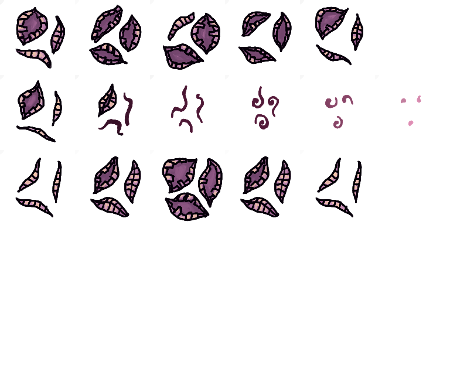
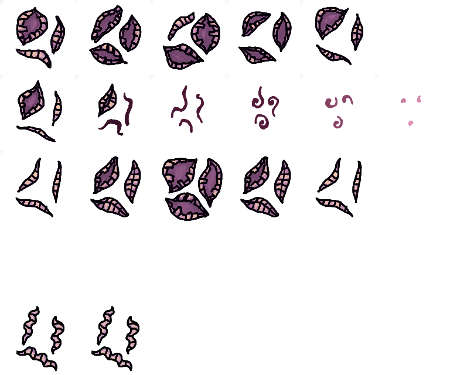
Green portal and a new enemy

Changed region(s): [[0.0311, 0.8213, 0.1556, 0.9973], [0.1867, 0.8213, 0.3111, 0.9973]]

diff --git a/src/animationsystem.py b/src/animationsystem.py
@@ -43,34 +43,41 @@ class AnimationSystem(object):
                 if not self.world.appearance[entity_ID].play_animation_till_end and not self.stun_animation_running(entity_ID):
                     if isinstance(event, events.EntityAttacks):
                         self.play_attack_animation(entity_ID, event.attack_Nr)
-                    if isinstance(event, events.EntityJump):
+                    elif isinstance(event, events.EntityJump):
                         if not self.jump_animation_running(entity_ID):
                             self.play_jump_animation(entity_ID)
-                    if isinstance(event, events.EntityMovesLeft):
+                    elif isinstance(event, events.EntityMovesLeft):
                         self.world.appearance[entity_ID].flip = True
                         if not self.walk_animation_running(entity_ID) and not self.jump_animation_running(entity_ID):
                             self.play_walk_animation(entity_ID)
-                    if isinstance(event, events.EntityMovesRight):
+                    elif isinstance(event, events.EntityMovesRight):
                         self.world.appearance[entity_ID].flip = False
                         if not self.walk_animation_running(entity_ID) and not self.jump_animation_running(entity_ID):
                             self.play_walk_animation(entity_ID)
-                    if isinstance(event, events.EntityStopMovingLeft):
+                    elif isinstance(event, events.EntityStopMovingLeft):
                         if not self.idle_animation_running(entity_ID) and not self.jump_animation_running(entity_ID):
                             self.play_idle_animation(entity_ID)
-                    if isinstance(event, events.EntityStopMovingRight):
+                    elif isinstance(event, events.EntityStopMovingRight):
                         if not self.idle_animation_running(entity_ID) and not self.jump_animation_running(entity_ID):
                             self.play_idle_animation(entity_ID)
-                    if isinstance(event, events.EntityGrounded):
-                        if self.jump_animation_running(entity_ID):
-                            self.play_idle_animation(entity_ID)
+                    elif isinstance(event, events.EntityGrounded):
+                        if self.jump_animation_running(entity_ID) or "no_gravity" in self.world.collider[entity_ID].tags:
+                            if not self.idle_animation_running(entity_ID):
+                                self.play_idle_animation(entity_ID)
                 if isinstance(event, events.ActivateEntity):
                     self.play_idle_animation(entity_ID)
+                '''
+                if isinstance(event, events.PlayIdleAnimation):
+                    self.world.appearance[entity_ID].current_animation = 0
+                    if self.world.appearance[entity_ID].frames[0] < self.world.appearance[entity_ID].current_frame_x:
+                        self.world.appearance[entity_ID].current_frame_x = 0
+                '''
                 if isinstance(event, events.EntityStunned):
                     self.play_stun_animation(entity_ID, event.duration)
                 if isinstance(event, events.EntityDies):
                     if not self.death_animation_running(entity_ID):
                         self.play_death_animation(entity_ID)
-                                                
+
     def run_animations(self, dt):
         """Computes which animation frame should be displayed.
         Every CPU tick checks if new frame should be displayed. Therefore there is a counter for each animation that measures time. When time equal delay between frames passed, next frame will be displayed.

diff --git a/src/gameworld.py b/src/gameworld.py
@@ -255,6 +255,12 @@ class GameWorld(object):
                     proj_anim_time_list = [28, 13]
                     proj_width = 40
                     proj_height = 40
+                elif ai_ID == "green_2":
+                    proj_image = "projectile_fly_green.png"
+                    proj_anim_list = [2, 2]
+                    proj_anim_time_list = [28, 13]
+                    proj_width = 40
+                    proj_height = 40
                 elif ai_ID == "pink_1":
                     proj_image = "pink_proj.png"
                     proj_anim_list = [2, 2]
@@ -393,6 +399,8 @@ class GameWorld(object):
                 collider = components.Collider(x*64+96, y*64+74, 64, 64)
                 if tile_properties["setting"] == "pink":
                     temp = pygame.image.load(os.path.join('data', 'portal_pink.png'))
+                elif tile_properties["setting"] == "green":
+                    temp = pygame.image.load(os.path.join('data', 'portal_green.png'))
                 else:
                     temp = pygame.image.load(os.path.join('data', 'portal.png'))
                 portal_sprite = components.Appearance(temp.convert_alpha(), 256, 197, [8], [80])
@@ -516,7 +524,23 @@ class GameWorld(object):
             enemy_AI = ai.AI_1(self, enemy_ID, self.event_manager)
             self.add_component_to_entity(enemy_ID, enemy_AI)
             self.add_component_to_entity(enemy_ID, attack_list)
-
+        elif ai_ID == "green_2":
+            #Enemy's hitbox, it is 50 pixel width and 96 pixel height
+            coll = components.Collider(position[0], position[1], 100, 100, tags)
+            vel = components.Velocity(0, 0, max_x_vel, max_y_vel)
+            #Create enemy's animations
+            temp = pygame.image.load(os.path.join('data', 'enemy_green_2.png')).convert_alpha()
+            anim_list = [5, 6, 4, 2, 2, 2]
+            anim_time_list = [74, 60, 60, 10, 10, 10]
+            anim = components.Appearance(temp, 128, 128, anim_list, anim_time_list)
+            anim.rect.center = coll.center
+            direction = components.Direction([1, 0])
+            hp = components.Health(max_hp)
+            c = (coll, direction, vel, anim, hp)
+            enemy_ID = self.create_entity(c)
+            enemy_AI = ai.AI_3(self, enemy_ID, self.event_manager)
+            self.add_component_to_entity(enemy_ID, enemy_AI)
+            self.add_component_to_entity(enemy_ID, attack_list)
         elif ai_ID == "pink_1":
             #Enemy's hitbox, it is 50 pixel width and 96 pixel height
             coll = components.Collider(position[0], position[1], 50, 96, tags)

diff --git a/src/collisionsystem.py b/src/collisionsystem.py
@@ -118,6 +118,8 @@ class CollisionSystem(object):
             self.event_manager.post(ev_collision)
         if not hit_items and not "no_gravity" in self.world.collider[collider_ID].tags:
             ev = events.EntityJump(collider_ID)
+        if "no_gravity" in self.world.collider[collider_ID].tags:
+                ev = events.EntityGrounded(collider_ID)
         if ev: 
             self.event_manager.post(ev)
         #Set new position and cast to int before, because position is in

diff --git a/src/events.py b/src/events.py
@@ -161,7 +161,6 @@ class HatMoved(Event):
         self.x = x
         self.y = y
 
-
 class UpdateImagePosition(Event):
     """Occurs when entity has moved and image position has to be updated.
     
